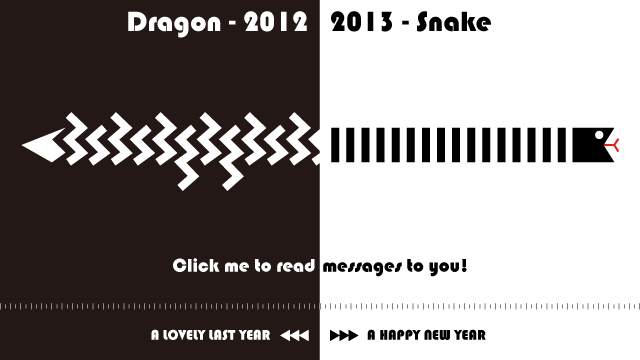
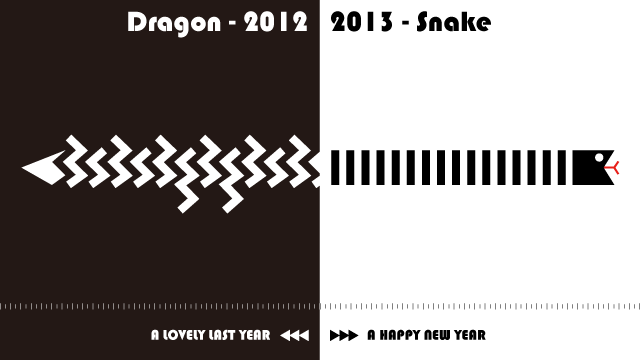
Add the arrows to indicate filip action

Changed region(s): [[0.0312, 0.3056, 0.9688, 0.6111], [0.25, 0.7028, 0.75, 0.7639]]

diff --git a/views/css/style.sass b/views/css/style.sass
@@ -1,13 +1,15 @@
 @import compass
 
-$background-image-url: url('/img/background.gif')
-$message-font-size:    18px
-$message-line-height:  $message-font-size * 2.5
-$fontcolor:            #888
-$card-width:           640px
-$card-height:          360px
-$footer-font-size:     12px
-$footer-top-margin:    30px
+$background-image-url:  url('/img/background.gif')
+$arrow-left-image-url:  url('/img/arrow-left.png')
+$arrow-right-image-url: url('/img/arrow-right.png')
+$message-font-size:     18px
+$message-line-height:   $message-font-size * 2.5
+$fontcolor:             #888
+$card-width:            640px
+$card-height:           360px
+$footer-font-size:      12px
+$footer-top-margin:     30px
 
 =cardsize
   width: $card-width
@@ -20,7 +22,7 @@ $footer-top-margin:    30px
 body
   color: $fontcolor
   text-shadow: 0px 0px 1px #ccc
-  background-image: $background-image-url
+  +background-image($background-image-url)
 
 #container
   +cardsize
@@ -35,14 +37,14 @@ body
   +transition(transform 1s)
   position: absolute
 
-#card > *
+#card > div
   +fullsize
   +backface-visibility(hidden)
   +box-shadow(0 0 50px #888)
-  display: block
   position: absolute
 
 #card .image
+  +fullsize
 
 #card .message
   +background-image(radial-gradient($card-width/2 $card-height/2, #fff $card-width/3, #eee $card-width))
@@ -58,6 +60,26 @@ body
 
 #card.flipped
   +transform(rotateY(-180deg))
+
+.arrow
+  +backface-visibility(hidden)
+  position: absolute
+  width: 40px
+  height: 40px
+  top: 10px
+  left: 590px
+
+.arrow-left
+  +background-image($arrow-left-image-url)
+
+.arrow-right
+  +background-image($arrow-right-image-url)
+
+.hover
+  +opacity(.1)
+
+.out
+  +opacity(.05)
 
 footer
   +text-shadow(0 0 1px #ccc)

diff --git a/public/js/main.js b/public/js/main.js
@@ -2,6 +2,14 @@ $(function() {
     $('#card').click(function() {
         $(this).toggleClass('flipped');
     })
+    $('#card').hover(
+        function() {
+            $('.arrow', this).removeClass('out').addClass('hover');
+        },
+        function() {
+            $('.arrow', this).removeClass('hover').addClass('out');
+        }
+    )
     $('#card a').click(function(e) {
         e.stopPropagation();
     })

diff --git a/web.rb b/web.rb
@@ -29,12 +29,16 @@ def find_card(sender, recipient)
 end
 
 get '/' do
-  @card = find_card('default', 'default')
+  @sender    = 'default'
+  @recipient = 'default'
+  @card = find_card(@sender, @recipient)
   haml :index
 end
 
 get '/:sender/to/:recipient' do
-  @card = find_card(params[:sender], params[:recipient])
+  @sender    = params[:sender]
+  @recipient = params[:recipient]
+  @card = find_card(@sender, @recipient)
   haml :index
 end
 
